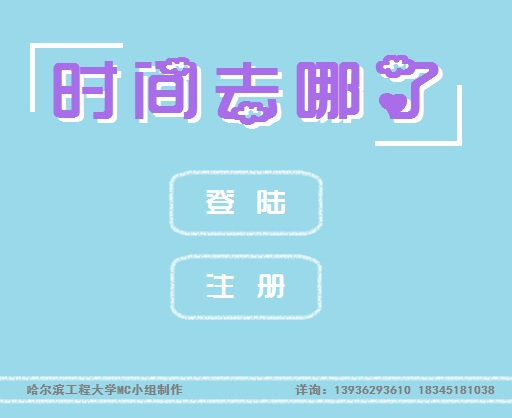
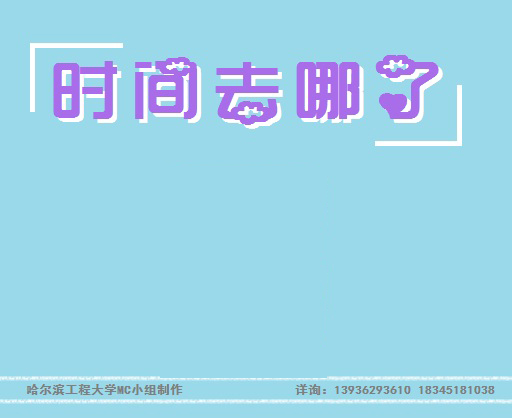
Right！

diff --git a/index.html b/index.html
@@ -6,52 +6,42 @@
     </title>
     <meta http-eqiv = "content-type" content = "text/html;charset = utf-8" />
     <style type = "text/css">
-      #bgimg {
-        position: absolute;
+      body
+      {
+        width: 100%;
+        height: 100%;
+      }
+      .bgimg {
         text-align: center;
-        width: 1000px;
-        height:600px;
+        background: url(first.jpg) no-repeat center;
+        margin-top: 50px;
+        padding: 100px;
+        display: block;
+        /*margin: 1% 23%;*/
         z-index: -1;
       }
-      #signIn {
+      .signIn {
         width: 153px;
-        height: 67px;
-        margin-top: 27%;
-        margin-left: 56.4%;
+        height: 65px;
+        margin: auto;
+        margin-top: 95px;
         border-width: 0px;
         display: block;
         background-image: url(signInButton.jpg);
-        border-style: outset;
       }
-      #signUp {
+      .signUp {
         width: 153px;
         height: 65px;
-        margin-top: 1.8%;
-        margin-left: 56.4%;
+        margin: auto;
+        margin-top: 10px;
         border-width: 0px;
         display: block;
         background-image: url(signUpButton.jpg);
-        border-style: outset;
       }
-      #all {
-        position: relative;
-        width: 1000px;
-        height:600px;
-      }
-      #bg {
-        margin-top: 10%;
-        margin-left: 30%;
-      }
-      #bt {
-        position: absolute;
-        width: 1000px;
-        height:600px;
-        z-index: 1;
-      }
-      #signIn:hover {
+      .signIn:hover {
         background-image: url(signInHover.jpg);
       }
-      #signUp:hover {
+      .signUp:hover {
         background-image: url(signUpHover.jpg);
       }
       body{
@@ -66,15 +56,9 @@
     </style>
   </head>
   <body>
-    <div id = "all">
-      <div id = "bgimg">
-        <img id = "bg" src = "first.jpg"/>
-      </div>
-      <div id = "bt">
-        <button id = "signIn"></button>
-        <button id = "signUp"></button>
-
-      </div>
+    <div class = "bgimg">
+      <button class = "signIn"></button>
+      <button class = "signUp"></button>
     </div>
   </body>
 </html>
